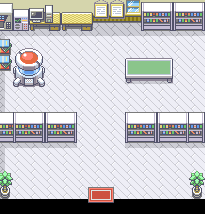
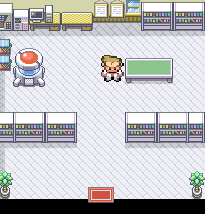
feat(scenes): update character interactions and obstacle visuals
- Add new character dialogue messages in multiple scenes
- Change obstacle colors and transparency for better visuals
- Adjust teleport positions and sizes
- Update battle scene transition coordinates
- Set black background for FinalPhase scene

Changed region(s): [[0.4683, 0.2523, 0.6146, 0.3925]]

diff --git a/src/game/scenes/HomeSecondFloor.ts b/src/game/scenes/HomeSecondFloor.ts
@@ -46,19 +46,20 @@ export class HomeSecondFloor extends Scene
         this.player = this.physics.add.sprite(130, 280, 'luanita-front-stopped').setDepth(1);
         this.player.setCollideWorldBounds(true); // Player collides with world bounds
 
-        this.createObstacle({ x: 40, y: 220, width: 60, height: 100, interactionMessage: 'Essa é minha cama, o Tsuki ama dormir aqui comigo... Inclusive... Onde está o Tsuki? será que o Dev ficou com preguiça de colocar ele aqui??? hm....' });
-        this.createObstacle({ x: 0, y: 0, width: 100, height: 60, interactionMessage: 'Esse é meu PC Gamer de 50k dol, jogo muito Monster Hunter aqui e posto meus pensamentos sobre os pobres macacos bostileiros ^^' });
-        this.createObstacle({ x: 150, y: 0, width: 100, height: 60, interactionMessage: 'Aqui estão os meus livros, muita coisa sobre Massoterapia, Letras e se olhar bem atento... melhor nem lembrar oq tem ali...' });
+        this.createObstacle({ x: 40, y: 220, width: 60, height: 100, interactionMessage: 'Essa é minha cama, o Tsuki ama dormir aqui... Ele é o meu gato mais companheiro, sempre tá comigo onde quer que eu ande nessa casa S2' });
+        this.createObstacle({ x: 0, y: 0, width: 100, height: 60, interactionMessage: 'Esse é meu PC Gamer de multi-milionária, aqui é onde eu jogo muito Monster Hunter, Tekken e etc...  Aé também amo postar meus pensamentos sobre os pobres macacos da região de Bostíl ^^' });
+        this.createObstacle({ x: 150, y: 0, width: 100, height: 60, interactionMessage: 'Aqui estão os meus livros, muita coisa sobre Massoterapia, Letras e se olhar bem de pertinho... tem um Kama Sutra :P' });
         this.createObstacle({ x: 365, y: 50, width: 50, height: 50 });
-        this.createObstacle({ x: 490, y: -20, width: 50, height: 30, interactionMessage: 'Verdade! preciso ir até o Professor Caralh... digo digo, Carvalho! Pois ele me chamou pra algo "especial" seja lá oque isso quer dizer...' });
-        this.createObstacle({ x: 230, y: 170, width: 60, height: 100, interactionMessage: 'Esse é meu Super Nintendo que eu peguei numa pexinxa aqui na feira do rolo do Chile, digo.. digo... Cidade de Pallet! Eu amo meus consoles classicos e meu sonho é um dia estar em um jogo... se eu pudesse escolher... acho que Pokemon!' });
+        this.createObstacle({ x: 490, y: -20, width: 50, height: 30, interactionMessage: 'Nossa! Hoje é meu aniversário!!! Parabéns pra mim!!!' });
+        this.createObstacle({ x: 230, y: 170, width: 60, height: 100, interactionMessage: 'Esse é meu Super Nintendo que eu peguei aqui na feira do rolo do Chile, digo.. digo... Cidade de Pallet! Eu amo meus consoles clássicos e meu sonho é um dia estar em um jogo... se eu pudesse escolher... acho que em algum Pokemon de gba :)' });
+        this.createObstacle({ x: 500, y: 380, width: 60, height: 60, interactionMessage: 'Esse pedaço de pau eu achei na rua, era bonito demais pra ir pra o lixo, então virou minha decoração, é o que dizem: "O lixo de um é o tesouro dos outros"' });
 
         // Teleport obstacle
         this.createObstacle({
-            x: 420,
-            y: 60,
+            x: 400,
+            y: 90,
             width: 20,
-            height: 50,
+            height: 60,
             teleportTo: {
                 scene: 'HomeFirstFloor',
                 x: 420,
@@ -271,8 +272,8 @@ export class HomeSecondFloor extends Scene
         color?: number;
         alpha?: number;
     }) {
-        const { x, y, width, height, interactionMessage, teleportTo, alpha = 0.3 } = options;
-        let { color = 0xff0000 } = options;
+        const { x, y, width, height, interactionMessage, teleportTo, alpha = 0.0 } = options;
+        let { color = 0xffffff } = options;
 
         if (interactionMessage) {
             color = 0x00ff00;

diff --git a/src/game/scenes/FinalBattleArena.ts b/src/game/scenes/FinalBattleArena.ts
@@ -54,6 +54,20 @@ export class FinalBattleArena extends Scene
                             this.arenaObstacle.setVisible(false)
                             this.arenaObstacle.destroy();
                         }
+                                            
+                        this.createObstacle({ 
+                            x: 300, 
+                            y: 50, 
+                            width: 20, 
+                            height: 20,                            
+                            teleportTo: {
+                                scene: 'FinalPhase',
+                                x: 270,
+                                y: 800
+                            },
+                            color: 0x800080, // Purple
+                            alpha: 1.0 // Visível
+                        }); 
                     });
                 });
             });
@@ -73,20 +87,6 @@ export class FinalBattleArena extends Scene
 
         //casas
         this.arenaObstacle = this.createObstacle({ x: 0, y: 310, width: 600, height: 70 }); // cima finalArena
-
-        this.createObstacle({ 
-            x: 300, 
-            y: 50, 
-            width: 20, 
-            height: 20,
-            teleportTo: {
-                scene: 'FinalPhase',
-                x: 300,
-                y: 800
-            },
-            color: 0x800080, // Purple
-            alpha: 0.5
-         }); // maquina de teleportemeio arena
         this.createObstacle({ x: 0, y: 0, width: 250, height: 200 }); // cima arena
         this.createObstacle({ x: 370, y: 0, width: 200, height: 200 }); // cima arena
 
@@ -101,7 +101,7 @@ export class FinalBattleArena extends Scene
             y: 330,
             width: 50,
             height: 50,
-            interactionMessage: 'Eu sou o XJ, e eu devorarei todos os Pokemons da região de Kanto e do mundo!!! Se ajoelhe perante a mim sua reles vegetariana! MUAHAHA HAHAHA',
+            interactionMessage: 'XJ-MON: Eu sou o XJ-MON, e eu devorarei todos os Pokemons da região de Kanto e do mundo!!! Se ajoelhe perante a mim sua reles vegetariana! MUAHAHA HAHAHA',
             teleportTo: {
                 scene: 'Battle',
                 x: 0,
@@ -112,19 +112,7 @@ export class FinalBattleArena extends Scene
         });
 
 
-        this.createObstacle({ 
-            x: 300, 
-            y: 50, 
-            width: 20, 
-            height: 20,
-            teleportTo: {
-                scene: 'FinalPhase',
-                x: 300,
-                y: 800
-            },
-            color: 0x800080, // Purple
-            alpha: 0.5
-         }); // maquina de teleporte
+
 
 
 
@@ -289,8 +277,8 @@ export class FinalBattleArena extends Scene
         color?: number;
         alpha?: number;
     }): Phaser.GameObjects.Rectangle {
-        const { x, y, width, height, interactionMessage, teleportTo, alpha = 0.3 } = options;
-        let { color = 0xff0000 } = options;
+        const { x, y, width, height, interactionMessage, teleportTo, alpha = 0.0 } = options;
+        let { color = 0xffffff } = options;
 
         if (interactionMessage) {
             color = 0x00ff00;

diff --git a/src/game/scenes/PalletTown.ts b/src/game/scenes/PalletTown.ts
@@ -61,9 +61,10 @@ export class PalletTown extends Scene
         
         
         //flores
-        this.createObstacle({ x: 450, y: 530, width: 20 , height: 20 , interactionMessage: 'Sei que você pediu cartas de Pokémon, mas achei que te colocar dentro de um jogo Pokémon seria mais divertido 😄 Feliz aniversário, Luanita! — Lucas Simões'}); // placa campo de flores
+        this.createObstacle({ x: 450, y: 530, width: 20 , height: 20, interactionMessage: 'Canteiro de flores Luanita Lied Rodriguez' }); // placa campo de flores
+        this.createObstacle({ x: 330, y: 680, width: 60 , height: 10, interactionMessage: 'Bulba: Sei que você pediu cartas de Pokémon, mas achei que te colocar dentro de um jogo Pokémon seria mais divertido 😄 Feliz aniversário, Luanita!' }); // buba
         this.createObstacle({ x: 250, y: 530, width: 150 , height: 10 }); // cerca do canteiro de flores
-        this.createObstacle({ x: 250, y: 680, width: 20 , height: 20 , interactionMessage: 'Não conheço todas as flores do mundo, mas quis deixar esse cantinho aqui pra te desejar coisas boas. Que seu novo ano venha leve, divertido e cheio de conquistas!'}); // placa campo de flores
+        this.createObstacle({ x: 250, y: 680, width: 20 , height: 10 , interactionMessage: 'Não conheço todas as flores do mundo, mas quis deixar esse cantinho aqui pra te desejar coisas boas. Que seu novo ano venha leve, divertido e cheio de conquistas!'}); // placa campo de flores
 
         this.createObstacle({ x: 630, y: 770, width: 250 , height: 10 }); // cerca do canteiro de flores 2
         this.createObstacle({ x: 780, y: 770, width: 20 , height: 20 , interactionMessage: 'Esse é o Laboratório do professor Carvalho! Melhor me apressar e ver o que ele quer comigo...'}); // placa campo do lab
@@ -238,8 +239,8 @@ export class PalletTown extends Scene
         color?: number;
         alpha?: number;
     }) {
-        const { x, y, width, height, interactionMessage, teleportTo, alpha = 0.3 } = options;
-        let { color = 0xff0000 } = options;
+        const { x, y, width, height, interactionMessage, teleportTo, alpha = 0.0 } = options;
+        let { color = 0xffffff } = options;
 
         if (interactionMessage) {
             color = 0x00ff00;

diff --git a/src/game/scenes/FinalPhase.ts b/src/game/scenes/FinalPhase.ts
@@ -34,6 +34,8 @@ export class FinalPhase extends Scene
         MusicManager.playMusic(this, 'defaultPalletTown');
 
         this.camera = this.cameras.main;
+        this.camera.setBackgroundColor(0x000000);
+
         this.background = this.add.image(0, 0, 'FinalPhase').setOrigin(0, 0);
         this.background.setScale(3);
 
@@ -46,7 +48,7 @@ export class FinalPhase extends Scene
         this.player.setInteractive(false);
 
         this.createObstacle({ x: 0, y: 0, width: 200, height: 100 }); // cima arena esq
-        this.createObstacle({ x: 230, y: 120, width: 70, height: 30, interactionMessage: 'PARABÉNS!!! GRAÇAS AO PODER DO VEGETARIANISMO O XJ-MON FOI DERROTADO!!! e é claro, parabéns por mais um ano de vida ;) espero que tenha gostado do meu presente, já tentou interagir com os seus pokemons favoritos aqui dessa sala? garanto que vai valer apena! E bom, espero ter tirado ao menos um sorriso seu'}); // cima arena meio
+        this.createObstacle({ x: 230, y: 120, width: 70, height: 30, interactionMessage: 'Bulba: PARABÉNS!!! GRAÇAS AO PODER DO VEGETARIANISMO O XJ-MON FOI DERROTADO!!! e é claro, parabéns por mais um ano de vida ;) espero que tenha gostado do meu presente, já tentou interagir com os seus pokemons favoritos aqui dessa sala? garanto que vai valer apena! E bom, espero ter tirado ao menos um sorriso seu'}); // bulba
         this.createObstacle({ x: 340, y: 0, width: 200, height: 100 }); // cima arena dir
 
         this.createObstacle({ x: 0, y: 550, width: 200, height: 400 }); // baixo arena
@@ -285,8 +287,8 @@ export class FinalPhase extends Scene
         color?: number;
         alpha?: number;
     }) {
-        const { x, y, width, height, interactionMessage, teleportTo, alpha = 0.3 } = options;
-        let { color = 0xff0000 } = options;
+        const { x, y, width, height, interactionMessage, teleportTo, alpha = 0.0 } = options;
+        let { color = 0xffffff } = options;
 
         if (interactionMessage) {
             color = 0x00ff00;

diff --git a/src/game/scenes/HomeFirstFloor.ts b/src/game/scenes/HomeFirstFloor.ts
@@ -52,6 +52,7 @@ export class HomeFirstFloor extends Scene
         this.createObstacle({ x: 100, y: 0, width: 100, height: 50 }); // armarinho
         this.createObstacle({ x: 0, y: 280, width: 50, height: 100 }); // planta esquerda
         this.createObstacle({ x: 520, y: 280, width: 50, height: 100 }); // planta direita
+        this.createObstacle({ x: 480, y: 280, width: 50, height: 50, interactionMessage: 'Mãe: Oi minha filha, Parabéns !!! é seu aniversário e estou muito feliz por mais um ciclo na sua vida, espero que você seja a melhor mãe do mundo pra o Liam, se esforce pra isso! Aé verdade... o Professor Carvalho me disse que tá te esperando no laboratório, parece que algo urgente ocorreu por lá em um experimento e só você pode ajudar...' }); // mae
         this.createObstacle({ x: 240, y: 0, width: 50, height: 50, interactionMessage: 'Nossa pelo visto o clima hoje vai ser bem ensolarado de novo... saudade de um friozinho...' });
         this.createObstacle({ x: 200, y: 180, width: 180, height: 100, interactionMessage: 'Não tem um pão nessa casa... mais tarde vou jogar um Tekkenzinho pra desestressar dessa fome que eu to ">-<' });
 
@@ -222,8 +223,8 @@ export class HomeFirstFloor extends Scene
         color?: number;
         alpha?: number;
     }) {
-        const { x, y, width, height, interactionMessage, teleportTo, alpha = 0.3 } = options;
-        let { color = 0xff0000 } = options;
+        const { x, y, width, height, interactionMessage, teleportTo, alpha = 0.0 } = options;
+        let { color = 0xffffff } = options;
 
         if (interactionMessage) {
             color = 0x00ff00;

diff --git a/src/game/scenes/Lab.ts b/src/game/scenes/Lab.ts
@@ -47,6 +47,7 @@ export class Lab extends Scene
         //casas
         this.createObstacle({ x: 0, y: 0, width: 600, height: 70 }); // cima lab
         this.createObstacle({ x: 380, y: 180, width: 130, height: 50 }); // mesa
+        this.createObstacle({ x: 340, y: 180, width: 50, height: 50, interactionMessage: 'Prof: Luanita! que bom que chegou, um experimento meu saiu muito errado... meu amigo alquimista Shou Tucker me ensinou sobre alquimia, logo na minha 1a tentativa um monstro enorme surgiu! e ele está indo para a sala dos campeões do Indigo Plateou para devorar os pokemons que estão por lá, vc deve salvá-los! Entre na maquina ao lado e salve-os!' }); // prof
         this.createObstacle({ x: 0, y: 350, width: 230, height: 70 }); // livros esquerda
         this.createObstacle({ x: 390, y: 350, width: 230, height: 70 }); // livros direita
         this.createObstacle({ x: 0, y: 550, width: 600, height: 70 }); // entrada
@@ -215,8 +216,8 @@ export class Lab extends Scene
         color?: number;
         alpha?: number;
     }) {
-        const { x, y, width, height, interactionMessage, teleportTo, alpha = 0.3 } = options;
-        let { color = 0xff0000 } = options;
+        const { x, y, width, height, interactionMessage, teleportTo, alpha = 0.0 } = options;
+        let { color = 0xffffff } = options;
 
         if (interactionMessage) {
             color = 0x00ff00;

diff --git a/src/game/scenes/Battle.ts b/src/game/scenes/Battle.ts
@@ -312,7 +312,7 @@ export class Battle extends Scene {
             this.time.delayedCall(1500, () => {
                 this.displayMessage(`${this.enemyPokemon.name} foi derrotado!`);
                 this.time.delayedCall(2000, () => {
-                    this.scene.start('FinalBattleArena', { battleWon: true, x: 300, y: 550 });
+                    this.scene.start('FinalBattleArena', { battleWon: true, x: 300, y: 400 });
                 });
             });
             return;
